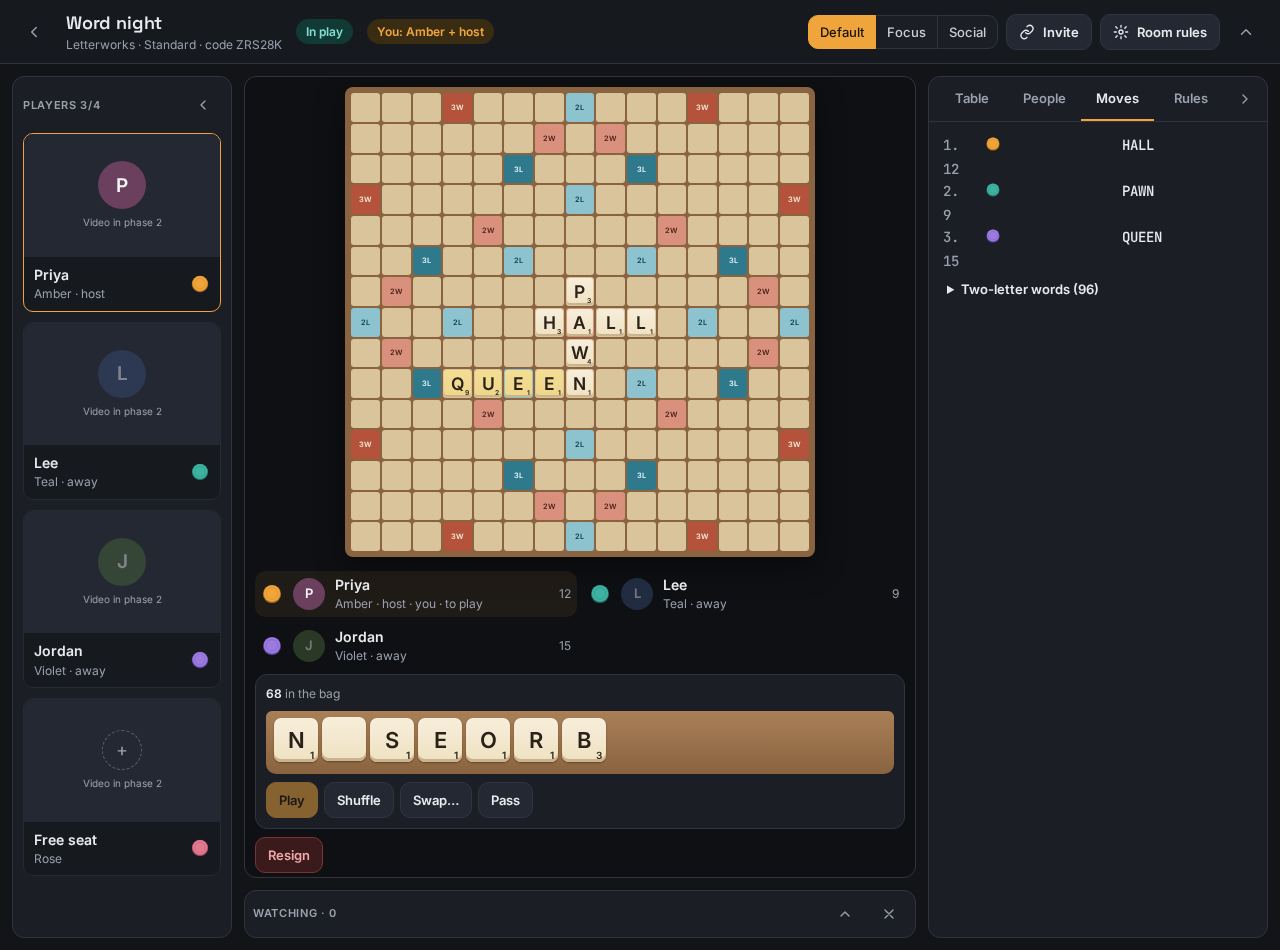
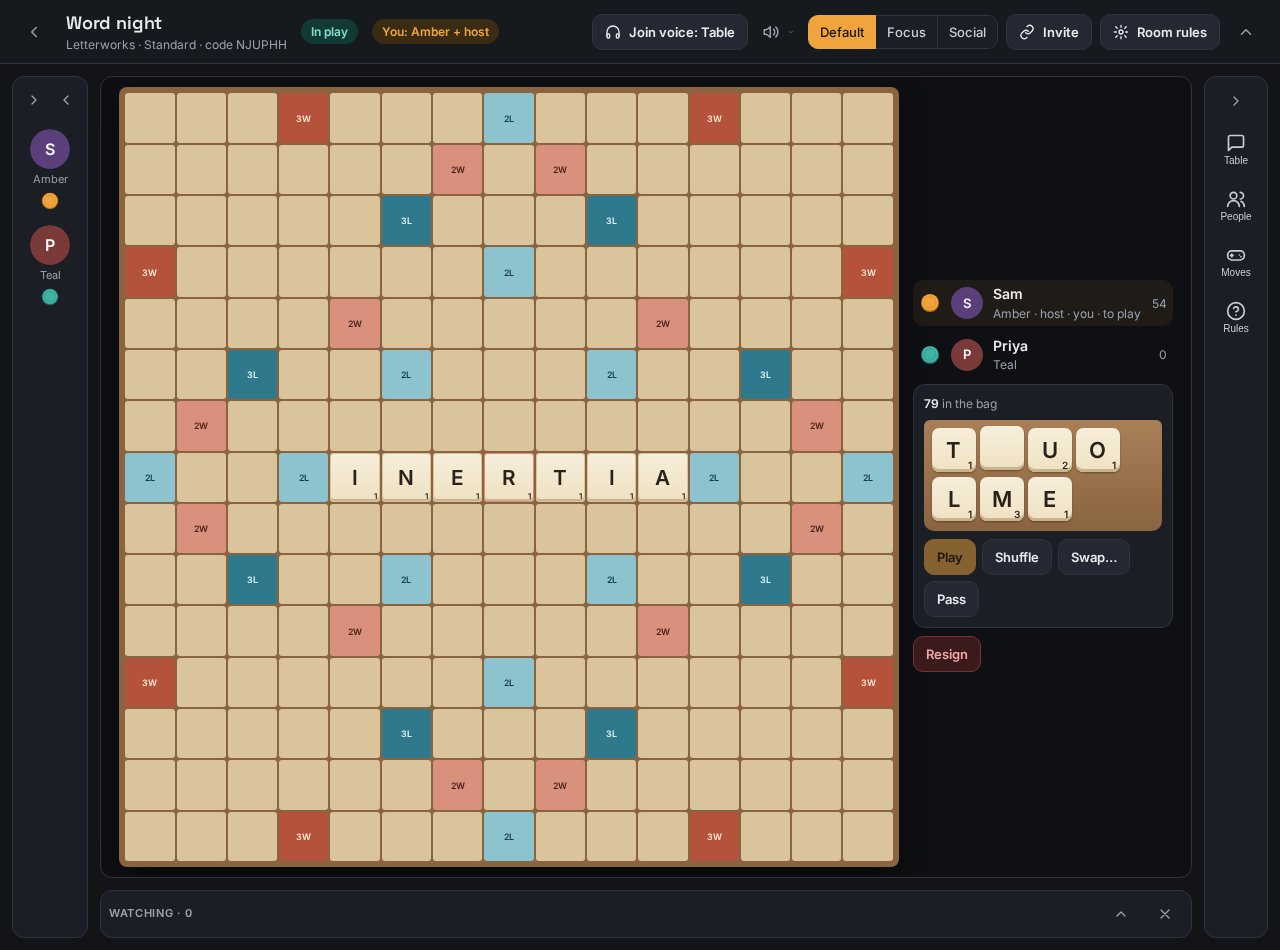
Playhall: new Letterworks screenshot

diff --git a/playhall/README.md b/playhall/README.md
@@ -101,7 +101,7 @@ The five ships are drawn for Playhall: a carrier with its flight deck, a battles
 
 **Letterworks** is a crossword tile game for two to four players, on our own board layout and tile set rather than the commercial game's. You build words from a private rack of seven tiles: tap a tile then a square (or drag it), and Playhall shows the words you're making and what they'd score before you commit. Every word is checked against ENABLE, a public-domain list of about 173,000 English words, and one that isn't allowed is turned down before anything is placed, so there are no challenges and no penalties. The Moves tab keeps the words played, and a panel lists all 96 two-letter words.
 
-![Letterworks with three players: HALL across the centre, PAWN down through its A and QUEEN ending on PAWN's N, Priya's rack of seven tiles under the board, and the Moves tab listing the three words and their scores](images/23-letterworks.png)
+![Letterworks: Sam's first word, INERTIA, laid across the centre with all seven of his tiles for 54 points, his new rack beside the board, and the bonus squares](images/23-letterworks.png)
 
 **Realm Duel** is a two-player creature card duel. Each player holds three creatures, each with its own strengths, an element and an ability. Every round both players secretly pick a creature and how it attacks (melee, ranged or magic), then both are revealed together: the quicker creature strikes first, elements beat one another in a cycle, and poison, stuns and shields carry over. The last player with creatures standing wins. The creature stats were balanced by simulating 20,000 games.
 
